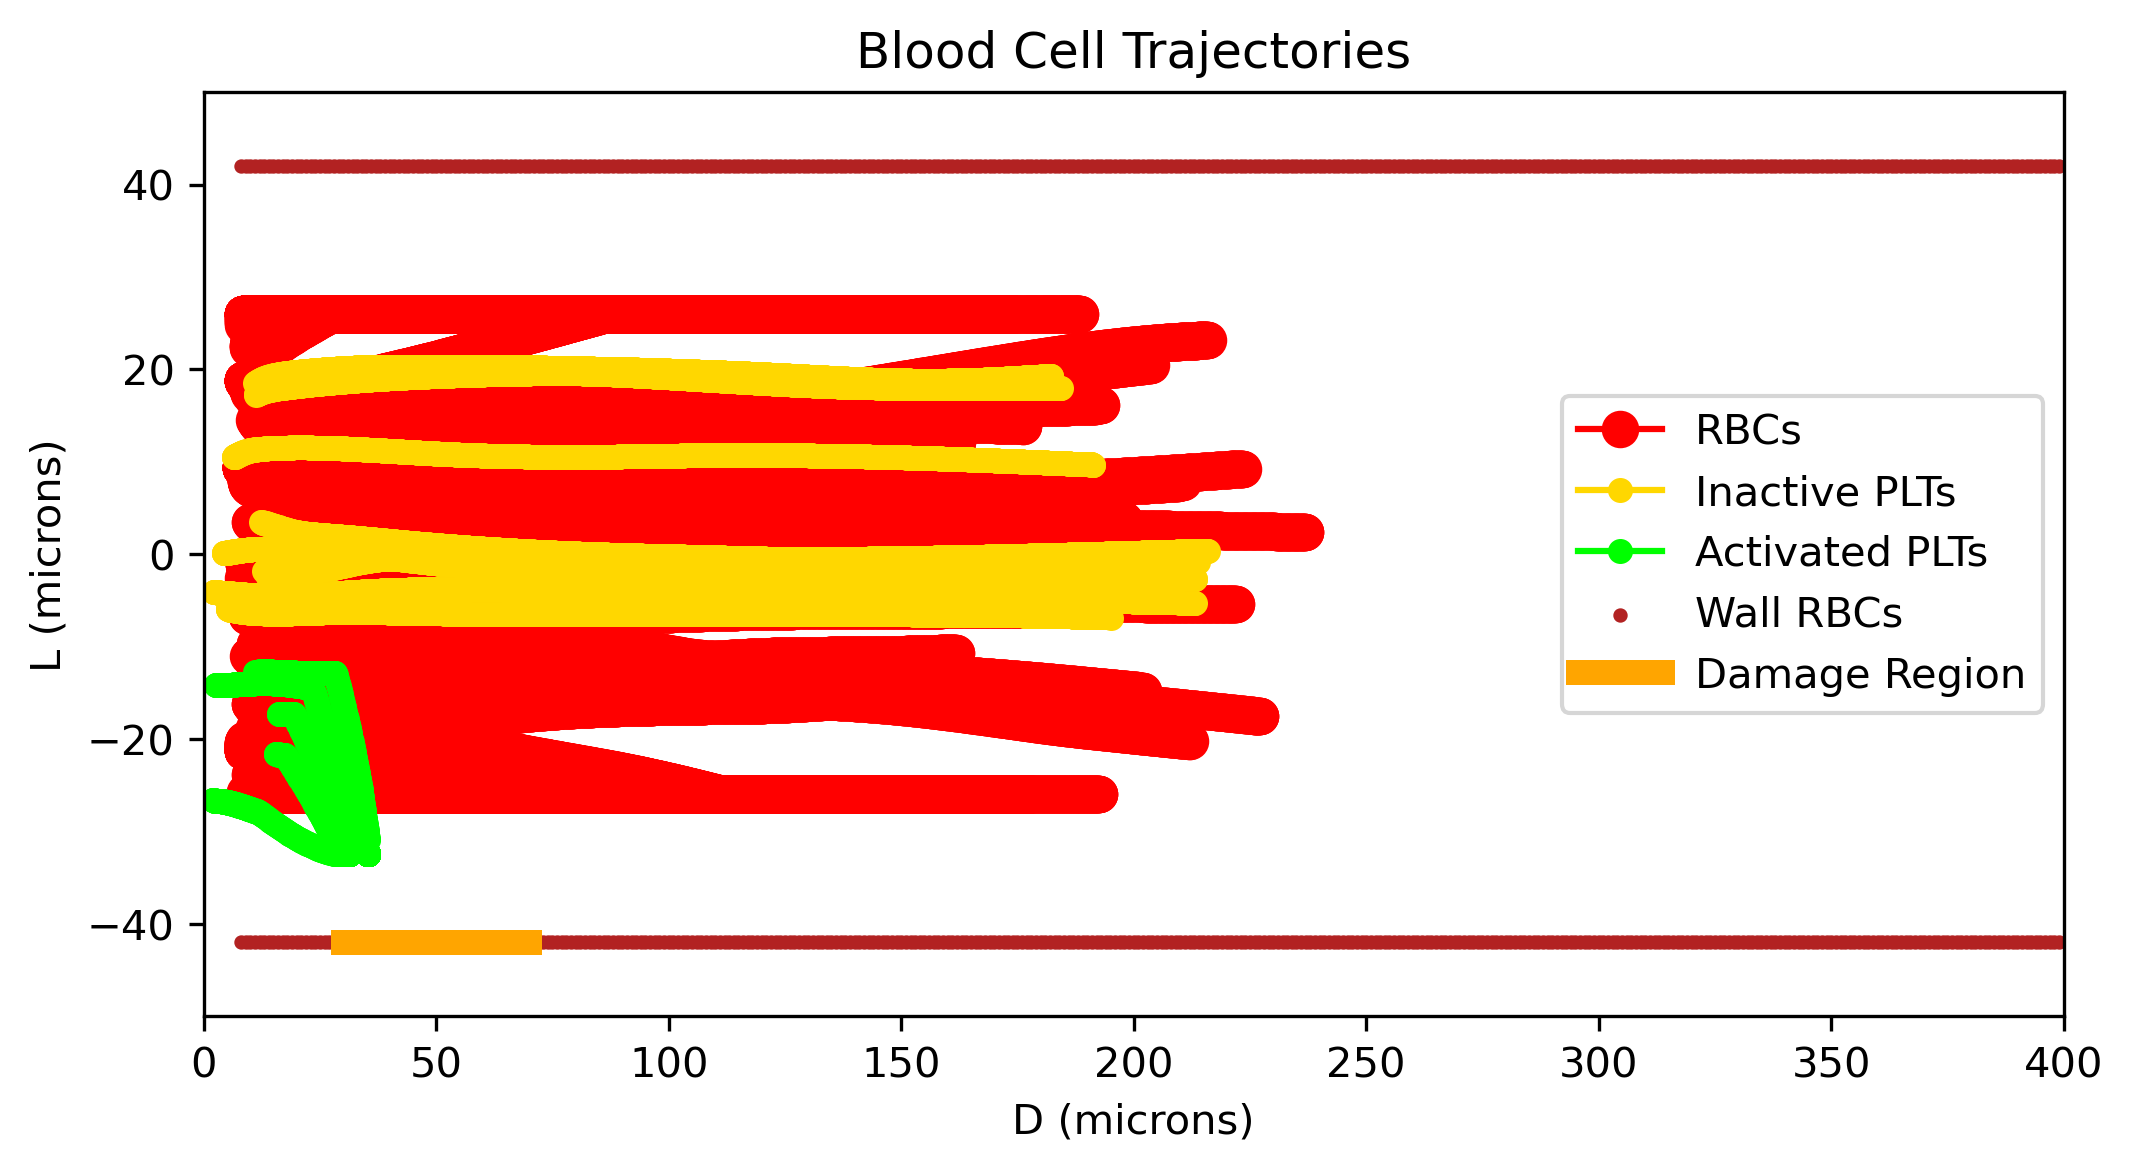
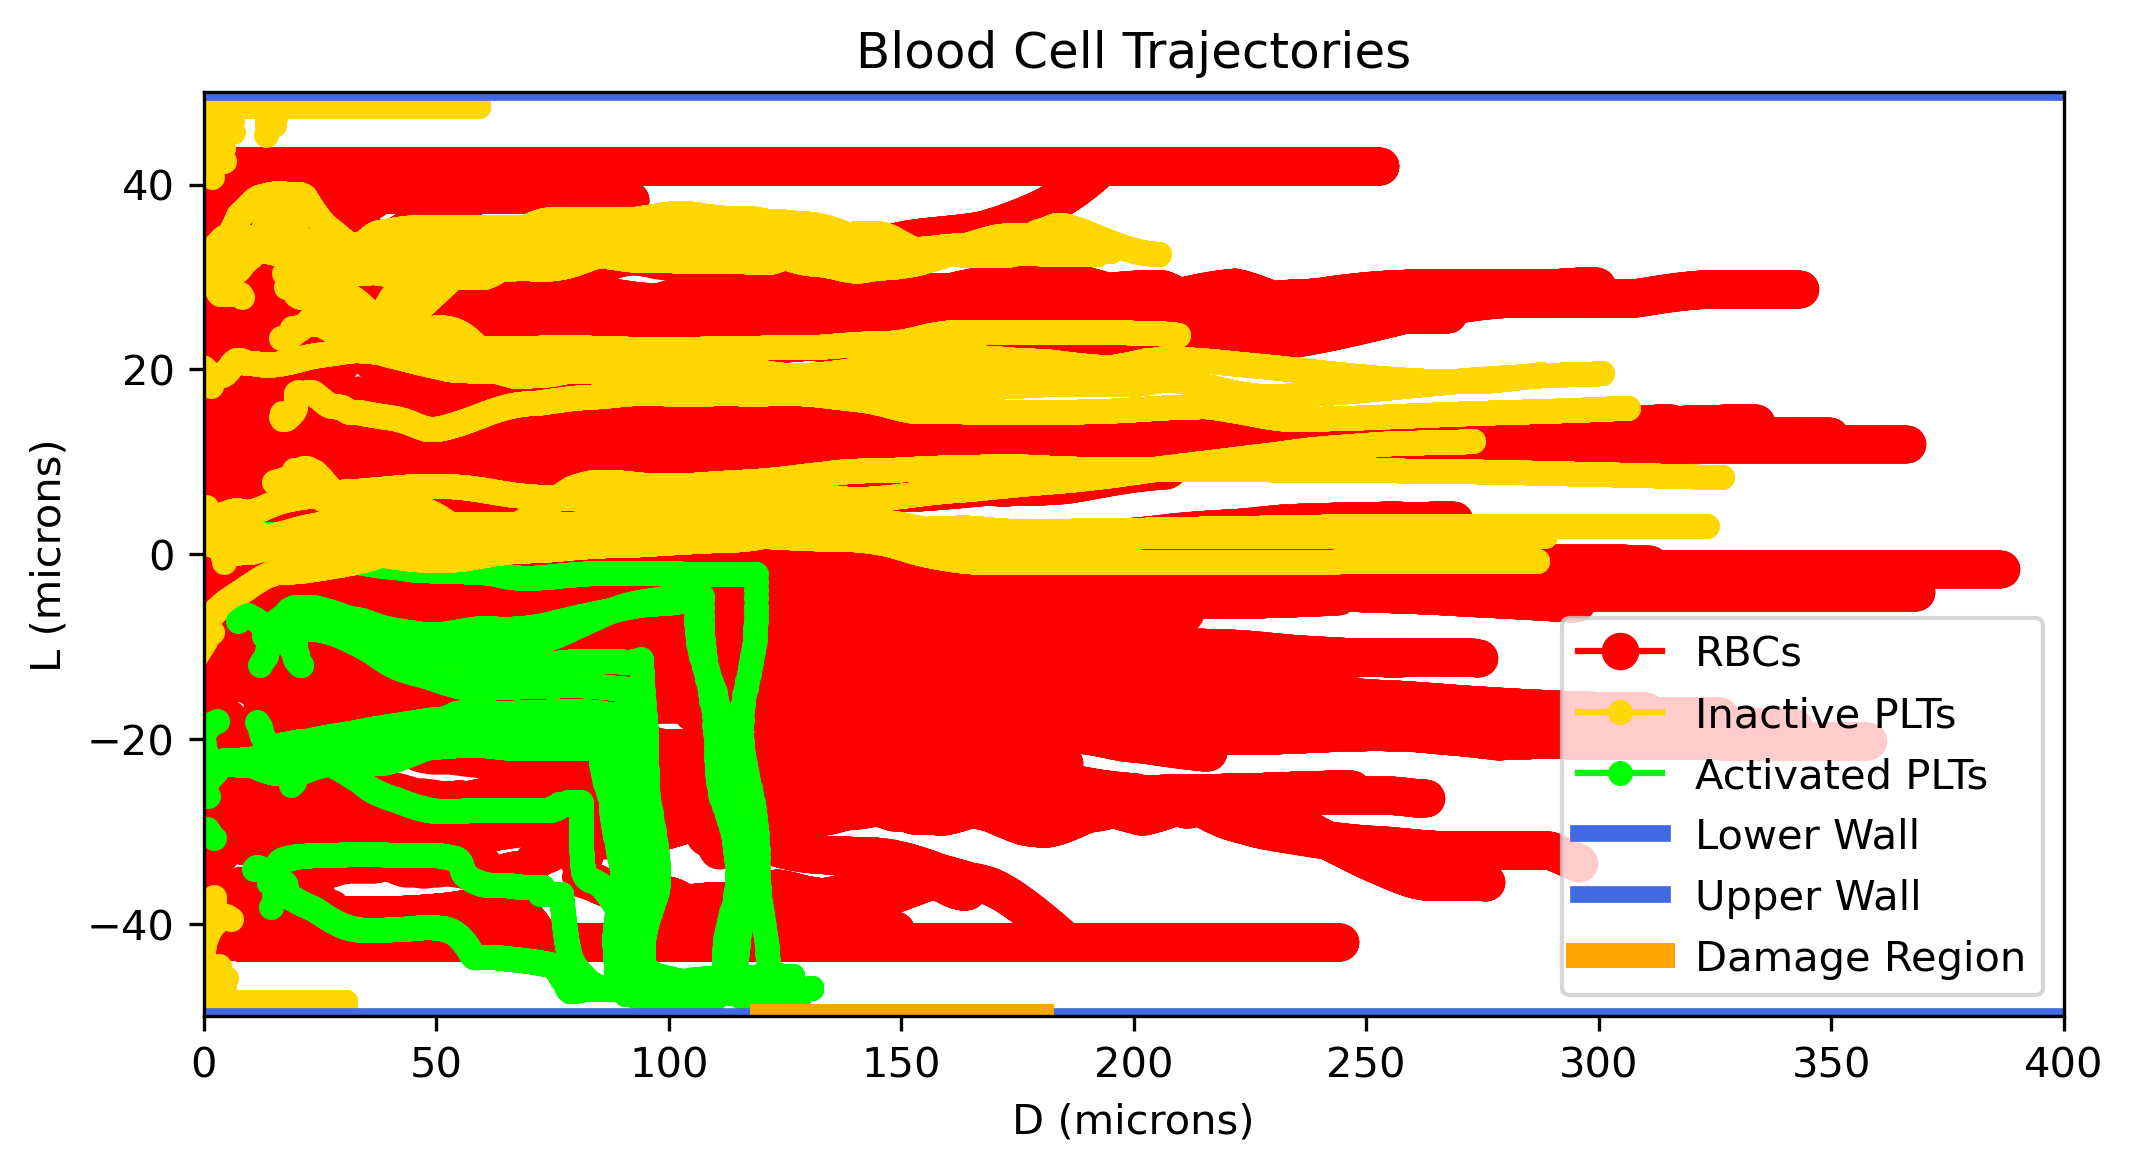
troubleshooting / need to add wall spring response so PLTs don't stick

diff --git a/BloodClotting/assets/model_functions.py b/BloodClotting/assets/model_functions.py
@@ -103,20 +103,6 @@ def sample_non_overlapping_positions(count, radius, x_bounds, y_bounds, rng, exi
     return [position.tolist() for position in positions]
 
 
-# Function to create fixed RBC particles along the upper and lower vessel walls
-
-def make_wall_rbc_particles(length, vessel_radius, radius, mass):
-    x_positions = np.arange(radius, length)
-    wall_y = vessel_radius - radius
-    wall_positions = []
-
-    for x_pos in x_positions:
-        wall_positions.append([x_pos, wall_y])
-        wall_positions.append([x_pos, -wall_y])
-
-    return make_rbc_population(radius, mass, wall_positions, fixed=True)
-
-
 # Function to calculate the plasma velocity profile across the vessel (Poiseuille flow)
 def plasma_velocity_profile(y, vessel_radius, max_velocity):
     return max_velocity * (1 - (y / vessel_radius) ** 2)
@@ -141,11 +127,9 @@ def activated_platelet_damping_force(particle, viscosity):
 # update used in this project.
 def compute_stable_dt(
     particles,
-    fixed_particles,
     vessel_radius,
     max_velocity,
     contact_spring,
-    wall_spring,
     damage_region,
     adhesion_spring,
     dt_max,
@@ -170,10 +154,9 @@ def compute_stable_dt(
             [plasma_velocity_profile(particle["pos"][1], vessel_radius, max_velocity), 0.0]
         )
         contact = contact_force(particle, particle_snapshots, contact_spring, index)
-        wall_contact = wall_contact_force(particle, fixed_particles, wall_spring)
-        adhesion = adhesion_velocity(particle, damage_region, adhesion_spring)
+        adhesion = adhesion_velocity(particle, particle_snapshots, damage_region, adhesion_spring)
 
-        speed = np.linalg.norm(base_velocity + contact + wall_contact + adhesion)
+        speed = np.linalg.norm(base_velocity + contact + adhesion)
         if speed <= 1e-12:
             continue
 
@@ -188,6 +171,36 @@ def nearest_damage_point(position, damage_region):
     x_coord = np.clip(position[0], damage_region["x_min"], damage_region["x_max"])
     y_coord = damage_region.get("contact_y", damage_region["y"])
     return np.array([x_coord, y_coord], dtype=float)
+
+
+# Build platelet-sized adhesion sites along the damaged wall patch.
+def damage_target_sites(damage_region, platelet_radius):
+    x_min = damage_region["x_min"] + platelet_radius
+    x_max = damage_region["x_max"] - platelet_radius
+    y_coord = damage_region.get("contact_y", damage_region["y"])
+
+    if x_max <= x_min:
+        return [np.array([(damage_region["x_min"] + damage_region["x_max"]) / 2, y_coord], dtype=float)]
+
+    spacing = 2 * platelet_radius
+    x_values = np.arange(x_min, x_max + 0.5 * spacing, spacing)
+    return [np.array([x_value, y_coord], dtype=float) for x_value in x_values]
+
+
+# Pick the nearest unoccupied adhesion site on the damaged wall.
+def nearest_available_damage_target(particle, particles, damage_region):
+    target_sites = damage_target_sites(damage_region, particle["radius"])
+    occupied_targets = [other["pos"] for other in particles if other["kind"] == "PLT" and other["adhered"]]
+
+    available_sites = []
+    for site in target_sites:
+        occupied = any(np.linalg.norm(site - occupied_site) < particle["radius"] for occupied_site in occupied_targets)
+        if not occupied:
+            available_sites.append(site)
+
+    candidate_sites = available_sites if available_sites else target_sites
+    distances = [np.linalg.norm(particle["pos"] - site) for site in candidate_sites]
+    return candidate_sites[int(np.argmin(distances))].copy()
 
 
 # Function to calculate the distance between a particle and the damaged wall segment
@@ -274,42 +287,21 @@ def contact_force(particle, moving_particles, spring_constant, self_index):
     return total_force
 
 
-# Function to calculate the repulsive spring force from the fixed wall particles
-def wall_contact_force(particle, fixed_particles, wall_spring_constant):
-    total_force = np.zeros(2)
-
-    for other_particle in fixed_particles:
-        total_force += pairwise_contact_force(particle, other_particle, wall_spring_constant)
-
-    return total_force
-
-
-# Resolve any overlap with fixed wall particles after the explicit update step.
-# This prevents tunneling through the wall layer when the timestep is large
-# relative to the contact stiffness.
-def resolve_fixed_particle_overlaps(particle, fixed_particles):
-    if particle["fixed"]:
+# Apply analytic upper/lower vessel walls, matching the simpler wall handling
+# used in p3_bueno.py.
+def apply_vessel_wall_bounds(particle, vessel_radius):
+    if particle["fixed"] or particle["adhered"]:
         return
 
-    for fixed_particle in fixed_particles:
-        displacement = particle["pos"] - fixed_particle["pos"]
-        distance = np.linalg.norm(displacement)
-        cutoff = particle["radius"] + fixed_particle["radius"]
-        overlap = cutoff - distance
+    y_min = -vessel_radius + particle["radius"]
+    y_max = vessel_radius - particle["radius"]
 
-        if overlap <= 0:
-            continue
-
-        if distance == 0:
-            direction = np.array([0.0, 1.0 if particle["pos"][1] >= 0 else -1.0])
-        else:
-            direction = displacement / distance
-
-        particle["pos"] = particle["pos"] + overlap * direction
-
-        normal_velocity = np.dot(particle["vel"], direction)
-        if normal_velocity < 0:
-            particle["vel"] = particle["vel"] - normal_velocity * direction
+    if particle["pos"][1] <= y_min:
+        particle["pos"][1] = y_min
+        particle["vel"][1] = abs(particle["vel"][1])
+    elif particle["pos"][1] >= y_max:
+        particle["pos"][1] = y_max
+        particle["vel"][1] = -abs(particle["vel"][1])
 
 
 # Function to calculate the wall adhesion force for activated platelets near the damaged region
@@ -333,11 +325,11 @@ def wall_adhesion_force(particle, damage_region, adhesion_cutoff, adhesion_stren
 
 # Convert the activated platelet attraction into a direct velocity correction,
 # following the kinematic update style used in p3_bueno.py.
-def adhesion_velocity(particle, damage_region, adhesion_strength):
+def adhesion_velocity(particle, particles, damage_region, adhesion_strength):
     if particle["kind"] != "PLT" or not particle["activated"]:
         return np.zeros(2)
 
-    target = nearest_damage_point(particle["pos"], damage_region)
+    target = nearest_available_damage_target(particle, particles, damage_region)
     displacement = target - particle["pos"]
     distance = np.linalg.norm(displacement)
 
@@ -345,15 +337,20 @@ def adhesion_velocity(particle, damage_region, adhesion_strength):
         return np.zeros(2)
 
     direction = displacement / distance
-    return adhesion_strength * np.array([0.5 * direction[0], direction[1]])
+
+    # Bias the activated platelet motion strongly toward the wall-normal
+    # direction so it does not keep drifting past the damaged region.
+    x_velocity = 0.1 * adhesion_strength * direction[0]
+    y_velocity = 3.0 * adhesion_strength * direction[1]
+    return np.array([x_velocity, y_velocity])
 
 
 # Stop an activated platelet once it has effectively reached the damaged site.
-def adhere_platelet_at_target(particle, damage_region):
+def adhere_platelet_at_target(particle, particles, damage_region):
     if particle["kind"] != "PLT" or not particle["activated"] or particle["adhered"]:
         return
 
-    target = nearest_damage_point(particle["pos"], damage_region)
+    target = nearest_available_damage_target(particle, particles, damage_region)
     distance = np.linalg.norm(particle["pos"] - target)
 
     if distance <= particle["radius"]:
@@ -364,13 +361,11 @@ def adhere_platelet_at_target(particle, damage_region):
 # Function to update all particles with activation, drag, contact, and optional wall adhesion
 def update_particles_with_activation_and_adhesion(
     particles,
-    fixed_particles,
     dt,
     viscosity,
     vessel_radius,
     max_velocity,
     contact_spring,
-    wall_spring,
     damage_region,
     threshold,
     activation_time_required,
@@ -400,21 +395,24 @@ def update_particles_with_activation_and_adhesion(
             particles[index]["pos"] = snapshot["pos"].copy()
             continue
 
-        base_velocity = np.array(
-            [plasma_velocity_profile(snapshot["pos"][1], vessel_radius, max_velocity), 0.0]
-        )
+        if snapshot["kind"] == "PLT" and snapshot["activated"]:
+            base_velocity = np.zeros(2)
+        else:
+            base_velocity = np.array(
+                [plasma_velocity_profile(snapshot["pos"][1], vessel_radius, max_velocity), 0.0]
+            )
         contact = contact_force(snapshot, particle_snapshots, contact_spring, index)
-        wall_contact = wall_contact_force(snapshot, fixed_particles, wall_spring)
         adhesion = adhesion_velocity(
             snapshot,
+            particle_snapshots,
             damage_region,
             k_adhesion,
         )
-        velocity = base_velocity + contact + wall_contact + adhesion
+        velocity = base_velocity + contact + adhesion
 
         particles[index]["vel"] = velocity
         particles[index]["pos"] = snapshot["pos"] + velocity * dt
-        resolve_fixed_particle_overlaps(particles[index], fixed_particles)
-        adhere_platelet_at_target(particles[index], damage_region)
+        apply_vessel_wall_bounds(particles[index], vessel_radius)
+        adhere_platelet_at_target(particles[index], particles, damage_region)
 
     return particles

diff --git a/BloodClotting/run_model.py b/BloodClotting/run_model.py
@@ -11,7 +11,6 @@ from assets.model_functions import (
     compute_stable_dt,
     make_plt_population,
     make_rbc_population,
-    make_wall_rbc_particles,
     update_particles_with_activation_and_adhesion,
 )
 
@@ -21,21 +20,19 @@ rbc_mass = 1.1
 plt_radius = 1.5
 plt_mass = 0.0124
 
-n_rbcs = 30  #number of RBCs to simulate
-n_plts = 15  #number of platelets to simulate
+n_rbcs = 80  #number of RBCs to simulate
+n_plts = 45  #number of platelets to simulate
 rng_seed = 42  #seed for reproducibility
-k_contact = 0.02
-k_wall = 0.1
-
+k_contact = 1  #contact stiffness for particle-particle and particle-wall interactions
 #Platelet activation and adhesion parameters
-threshold = 20
-activation_time_required = 2
+threshold = 45 #threshold for platelet activation based on contact force
+activation_time_required = 2 #time required for a platelet to become fully activated after exceeding the activation threshold
 adhesion_cutoff = 4 * plt_radius
-k_adhesion = 2
+k_adhesion = 3.0  #adhesion stiffness for activated platelets in contact with the damaged region
 
 # Time stepping for the simulation
-output_dt = 0.1
-n_steps = 2000
+output_dt = 0.1  #time interval for recording particle states and plotting
+n_steps = 3000 
 dt_max = output_dt
 
 #Vessel and flow parameters
@@ -48,23 +45,21 @@ inlet_width = 20.0
 
 #Place the damaged region near the inlet so platelet activation is testable
 #without requiring an extremely long simulation time.
-damage_center_x = 50.0
+damage_center_x = 150.0
 damage_region = {
-    "x_min": damage_center_x - 20.0,
-    "x_max": damage_center_x + 20.0,
-    "y": -(R - rbc_radius),
-    "contact_y": -(R - rbc_radius) + rbc_radius + plt_radius,
+    "x_min": damage_center_x - 30.0,
+    "x_max": damage_center_x + 30.0,
+    "y": -R,
+    "contact_y": -R + 2 * plt_radius,
 }
 
-# Initialize the random number generator and create the wall particles
+# Initialize the random number generator
 rng = np.random.default_rng(rng_seed)
-wall_particles = make_wall_rbc_particles(L, R, rbc_radius, rbc_mass)
 
-# Random initial particle positions inside the wall-particle boundaries
-wall_center_y = R - rbc_radius
-upper_bound_RBC = wall_center_y - (rbc_radius + rbc_radius)
+# Random initial particle positions inside the analytic vessel walls
+upper_bound_RBC = R - rbc_radius
 lower_bound_RBC = -upper_bound_RBC
-upper_bound_PLT = wall_center_y - (rbc_radius + plt_radius)
+upper_bound_PLT = R - plt_radius
 lower_bound_PLT = -upper_bound_PLT
 
 rbc_positions = [
@@ -103,11 +98,9 @@ for step in range(n_steps):
     while t < frame_end:
         dt = compute_stable_dt(
             particles,
-            wall_particles,
             R,
             V_max,
             k_contact,
-            k_wall,
             damage_region,
             k_adhesion,
             dt_max,
@@ -117,13 +110,11 @@ for step in range(n_steps):
 
         update_particles_with_activation_and_adhesion(
             particles,
-            wall_particles,
             dt,
             mu,
             R,
             V_max,
             k_contact,
-            k_wall,
             damage_region,
             threshold,
             activation_time_required,
@@ -170,8 +161,9 @@ for particle, history in zip(particles, position_history):
 
     plt.plot(history[:, 0], history[:, 1], label=label, color=color, marker="o", markersize=marker_size)
 
-wall_positions = np.array([particle["pos"] for particle in wall_particles])
-plt.scatter(wall_positions[:, 0], wall_positions[:, 1], label="Wall RBCs", color="firebrick", marker="o", s=6)
+wall_x = np.linspace(0, L, 1000)
+plt.plot(wall_x, -R * np.ones_like(wall_x), color="royalblue", linewidth=4, label="Lower Wall")
+plt.plot(wall_x, R * np.ones_like(wall_x), color="royalblue", linewidth=4, label="Upper Wall")
 plt.plot(
     [damage_region["x_min"], damage_region["x_max"]],
     [damage_region["y"], damage_region["y"]],
@@ -191,15 +183,16 @@ plt.close()
 
 # Add the animation using matplotlib's FuncAnimation
 fig, ax = plt.subplots(figsize=(8, 4))
-rbc_scatter = ax.scatter([], [], label="RBCs", color="red", s=30, marker="o")
-inactive_plt_scatter = ax.scatter([], [], label="Inactive PLTs", color="gold", s=15, marker="o")
-activated_plt_scatter = ax.scatter([], [], label="Activated PLTs", color="lime", s=15, marker="o")
-wall_scatter = ax.scatter(wall_positions[:, 0], wall_positions[:, 1], label="Wall RBCs", color="firebrick", s=6)
+rbc_scatter = ax.scatter([], [], label="RBCs", color="red", s=50, marker="o")
+inactive_plt_scatter = ax.scatter([], [], label="Inactive PLTs", color="gold", s=30, marker="o")
+activated_plt_scatter = ax.scatter([], [], label="Activated PLTs", color="blue", s=30, marker="o")
+ax.plot(wall_x, -R * np.ones_like(wall_x), color="firebrick", linewidth=12, label="Lower Wall")
+ax.plot(wall_x, R * np.ones_like(wall_x), color="firebrick", linewidth=12, label="Upper Wall")
 ax.plot(
     [damage_region["x_min"], damage_region["x_max"]],
     [damage_region["y"], damage_region["y"]],
     color="orange",
-    linewidth=6,
+    linewidth=12,
     label="Damage Region",
 )
 ax.set_xlim(0, L)
@@ -235,10 +228,10 @@ def update(frame):
     activated_plt_scatter.set_offsets(activated_plt_offsets)
     ax.set_title(f"Blood Cell Animation - Step {frame}")
 
-    return rbc_scatter, inactive_plt_scatter, activated_plt_scatter, wall_scatter
+    return rbc_scatter, inactive_plt_scatter, activated_plt_scatter
 
 animation = FuncAnimation(fig, update, frames=range(0, n_steps, 5), interval=50, blit=False)
 save_path = os.path.join("figs", "Blood_Cell_Animation.gif")
-animation.save(save_path, writer="pillow", fps=20)
+animation.save(save_path, writer="pillow", fps=20, dpi=300)
 print(f"Animation saved to {save_path}")
 plt.close()
